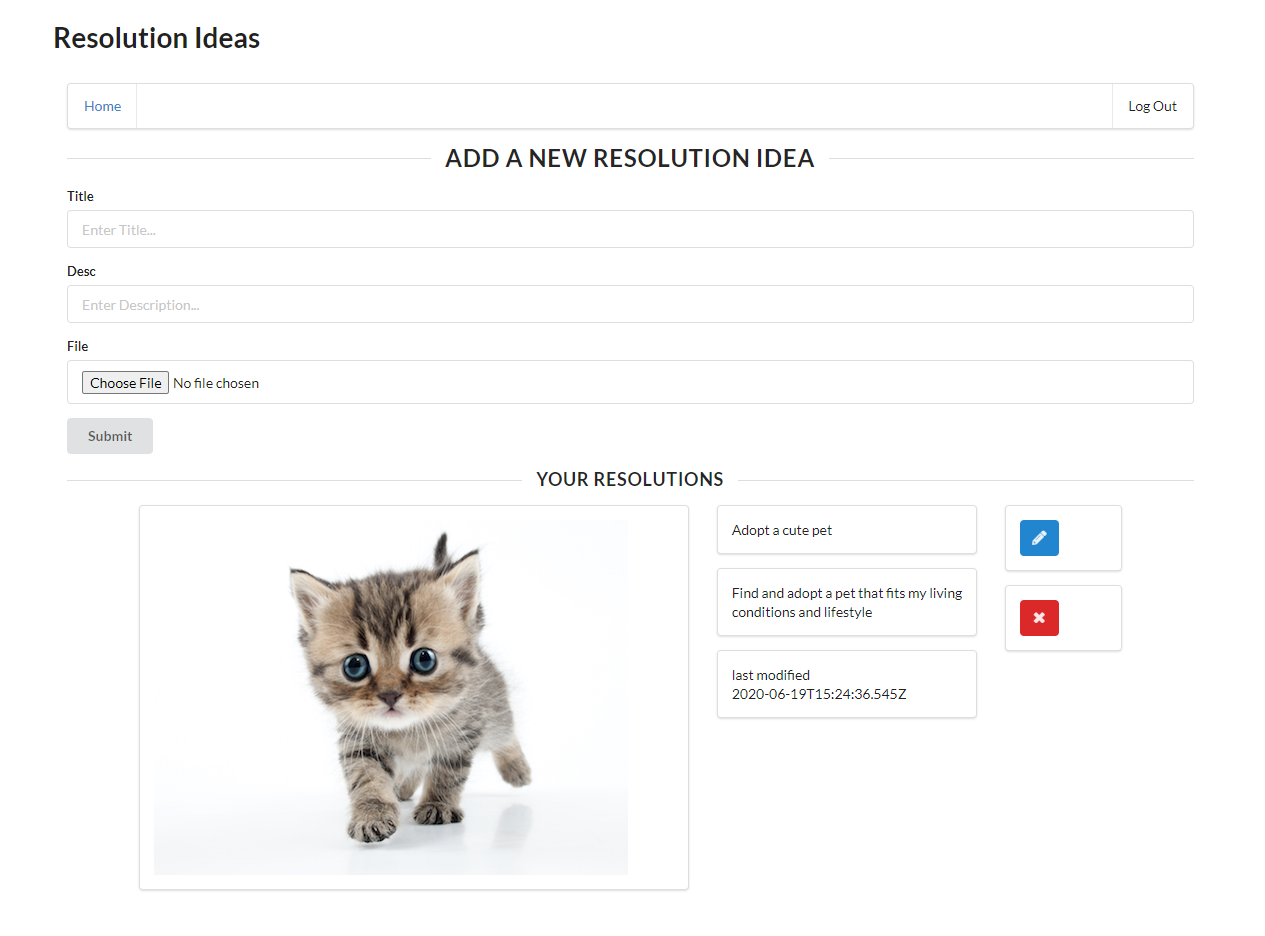
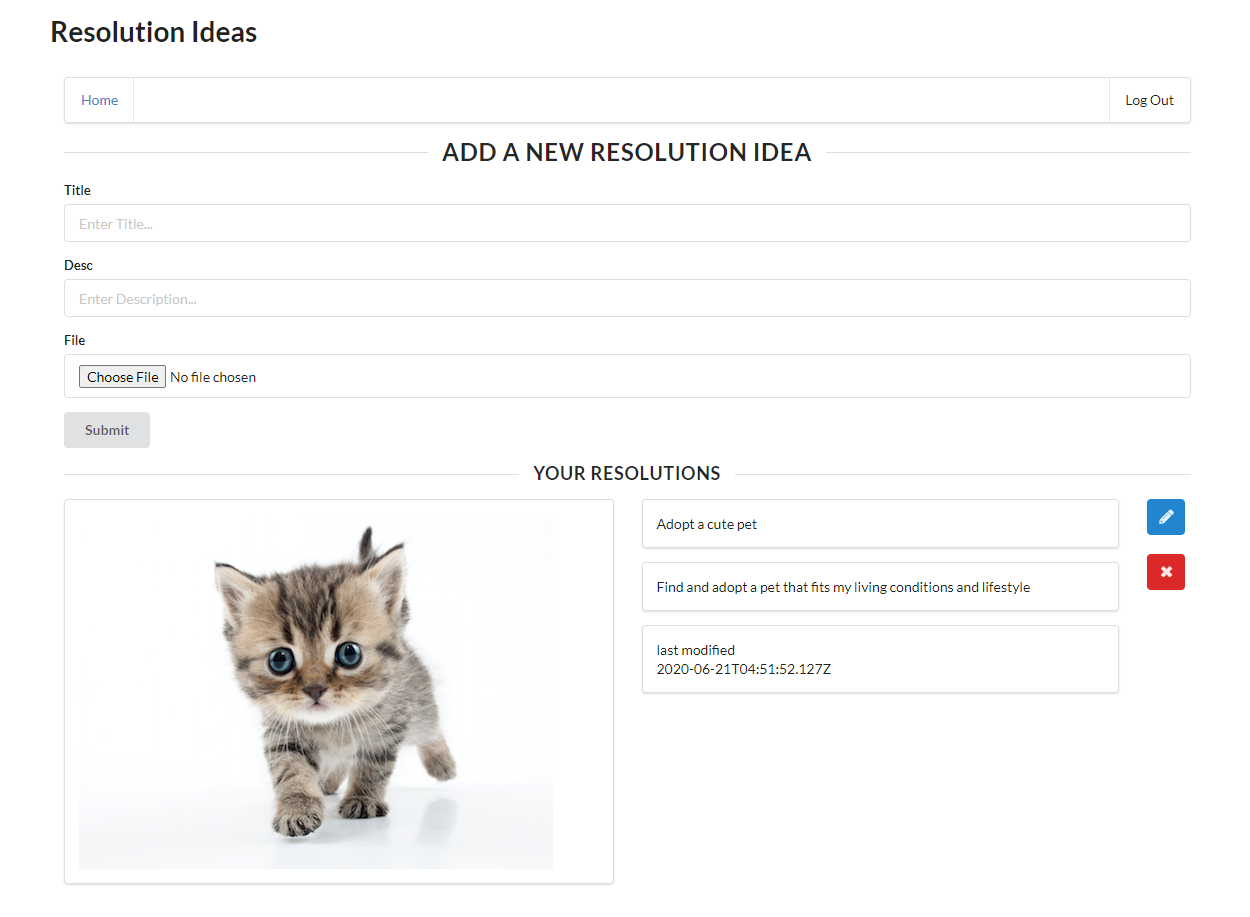
improve frondend view and add screenshots

diff --git a/client/src/components/Items.tsx b/client/src/components/Items.tsx
@@ -220,7 +220,7 @@ export class Items extends React.PureComponent<ItemsProps, ItemsState> {
                     <Image src={item.attachmentUrl} />
                   </Segment>
                 </Grid.Column>
-                <Grid.Column width={4}>
+                <Grid.Column width={7}>
                   <Segment>
                     {item.title}
                   </Segment>
@@ -232,17 +232,14 @@ export class Items extends React.PureComponent<ItemsProps, ItemsState> {
                     {item.createdAt}
                   </Segment>
                 </Grid.Column>
-                <Grid.Column width={2}>
-                  <Segment>
-                    <Button icon color="blue" onClick={() => this.onEditButtonClick(item.itemId)} >
-                      <Icon name="pencil" />
-                    </Button>
-                  </Segment>
-                  <Segment>
-                    <Button icon color="red" onClick={() => this.onItemDelete(item.itemId)}>
-                      <Icon name="delete" />  
-                    </Button>
-                  </Segment>
+                <Grid.Column width={1}>
+                  <Button icon color="blue" onClick={() => this.onEditButtonClick(item.itemId)} >
+                    <Icon name="pencil" />
+                  </Button>
+                  <br /><br />
+                  <Button icon color="red" onClick={() => this.onItemDelete(item.itemId)}>
+                    <Icon name="delete" />  
+                  </Button>
                 </Grid.Column>
               </Grid.Row>              
             )

diff --git a/client/src/config.ts b/client/src/config.ts
@@ -1,7 +1,7 @@
 // Backend API endpoint
-export const apiEndpoint = 'http://localhost:3003/dev'
-// const apiId = '6mjbppeyuf'
-// export const apiEndpoint = `https://${apiId}.execute-api.ap-southeast-1.amazonaws.com/dev`
+// export const apiEndpoint = 'http://localhost:3003/dev'
+const apiId = 'uj7di6b9af'
+export const apiEndpoint = `https://${apiId}.execute-api.ap-southeast-1.amazonaws.com/dev`
 
 // Auth0 configuration
 export const authConfig = {
